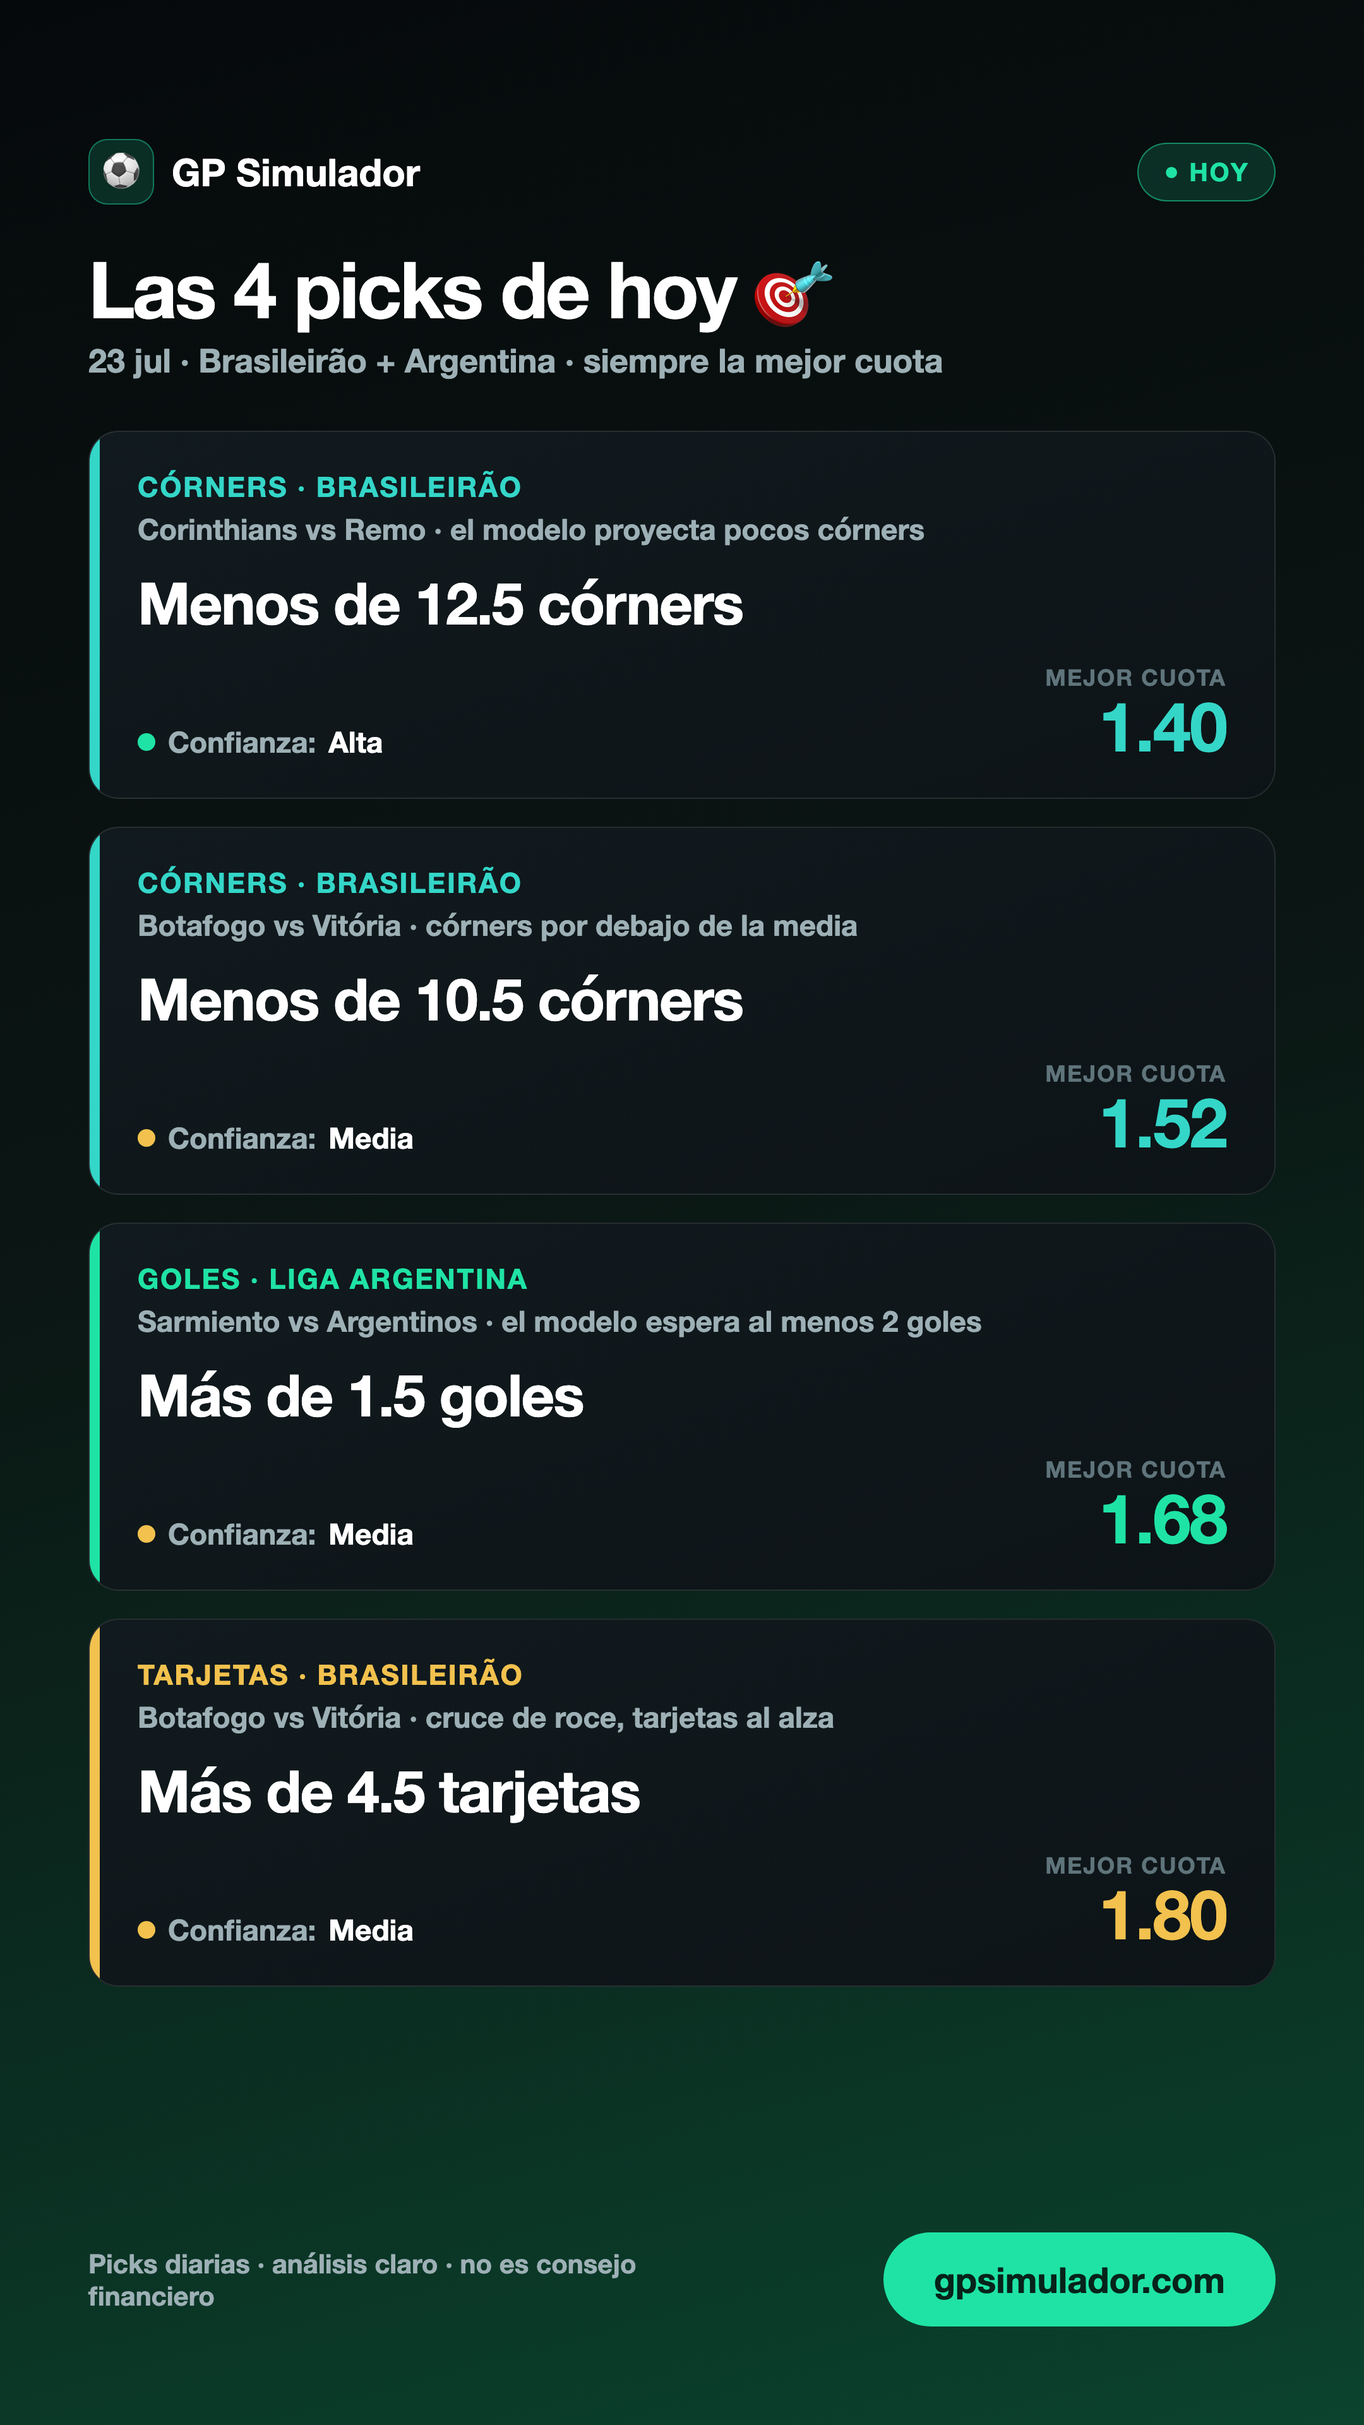
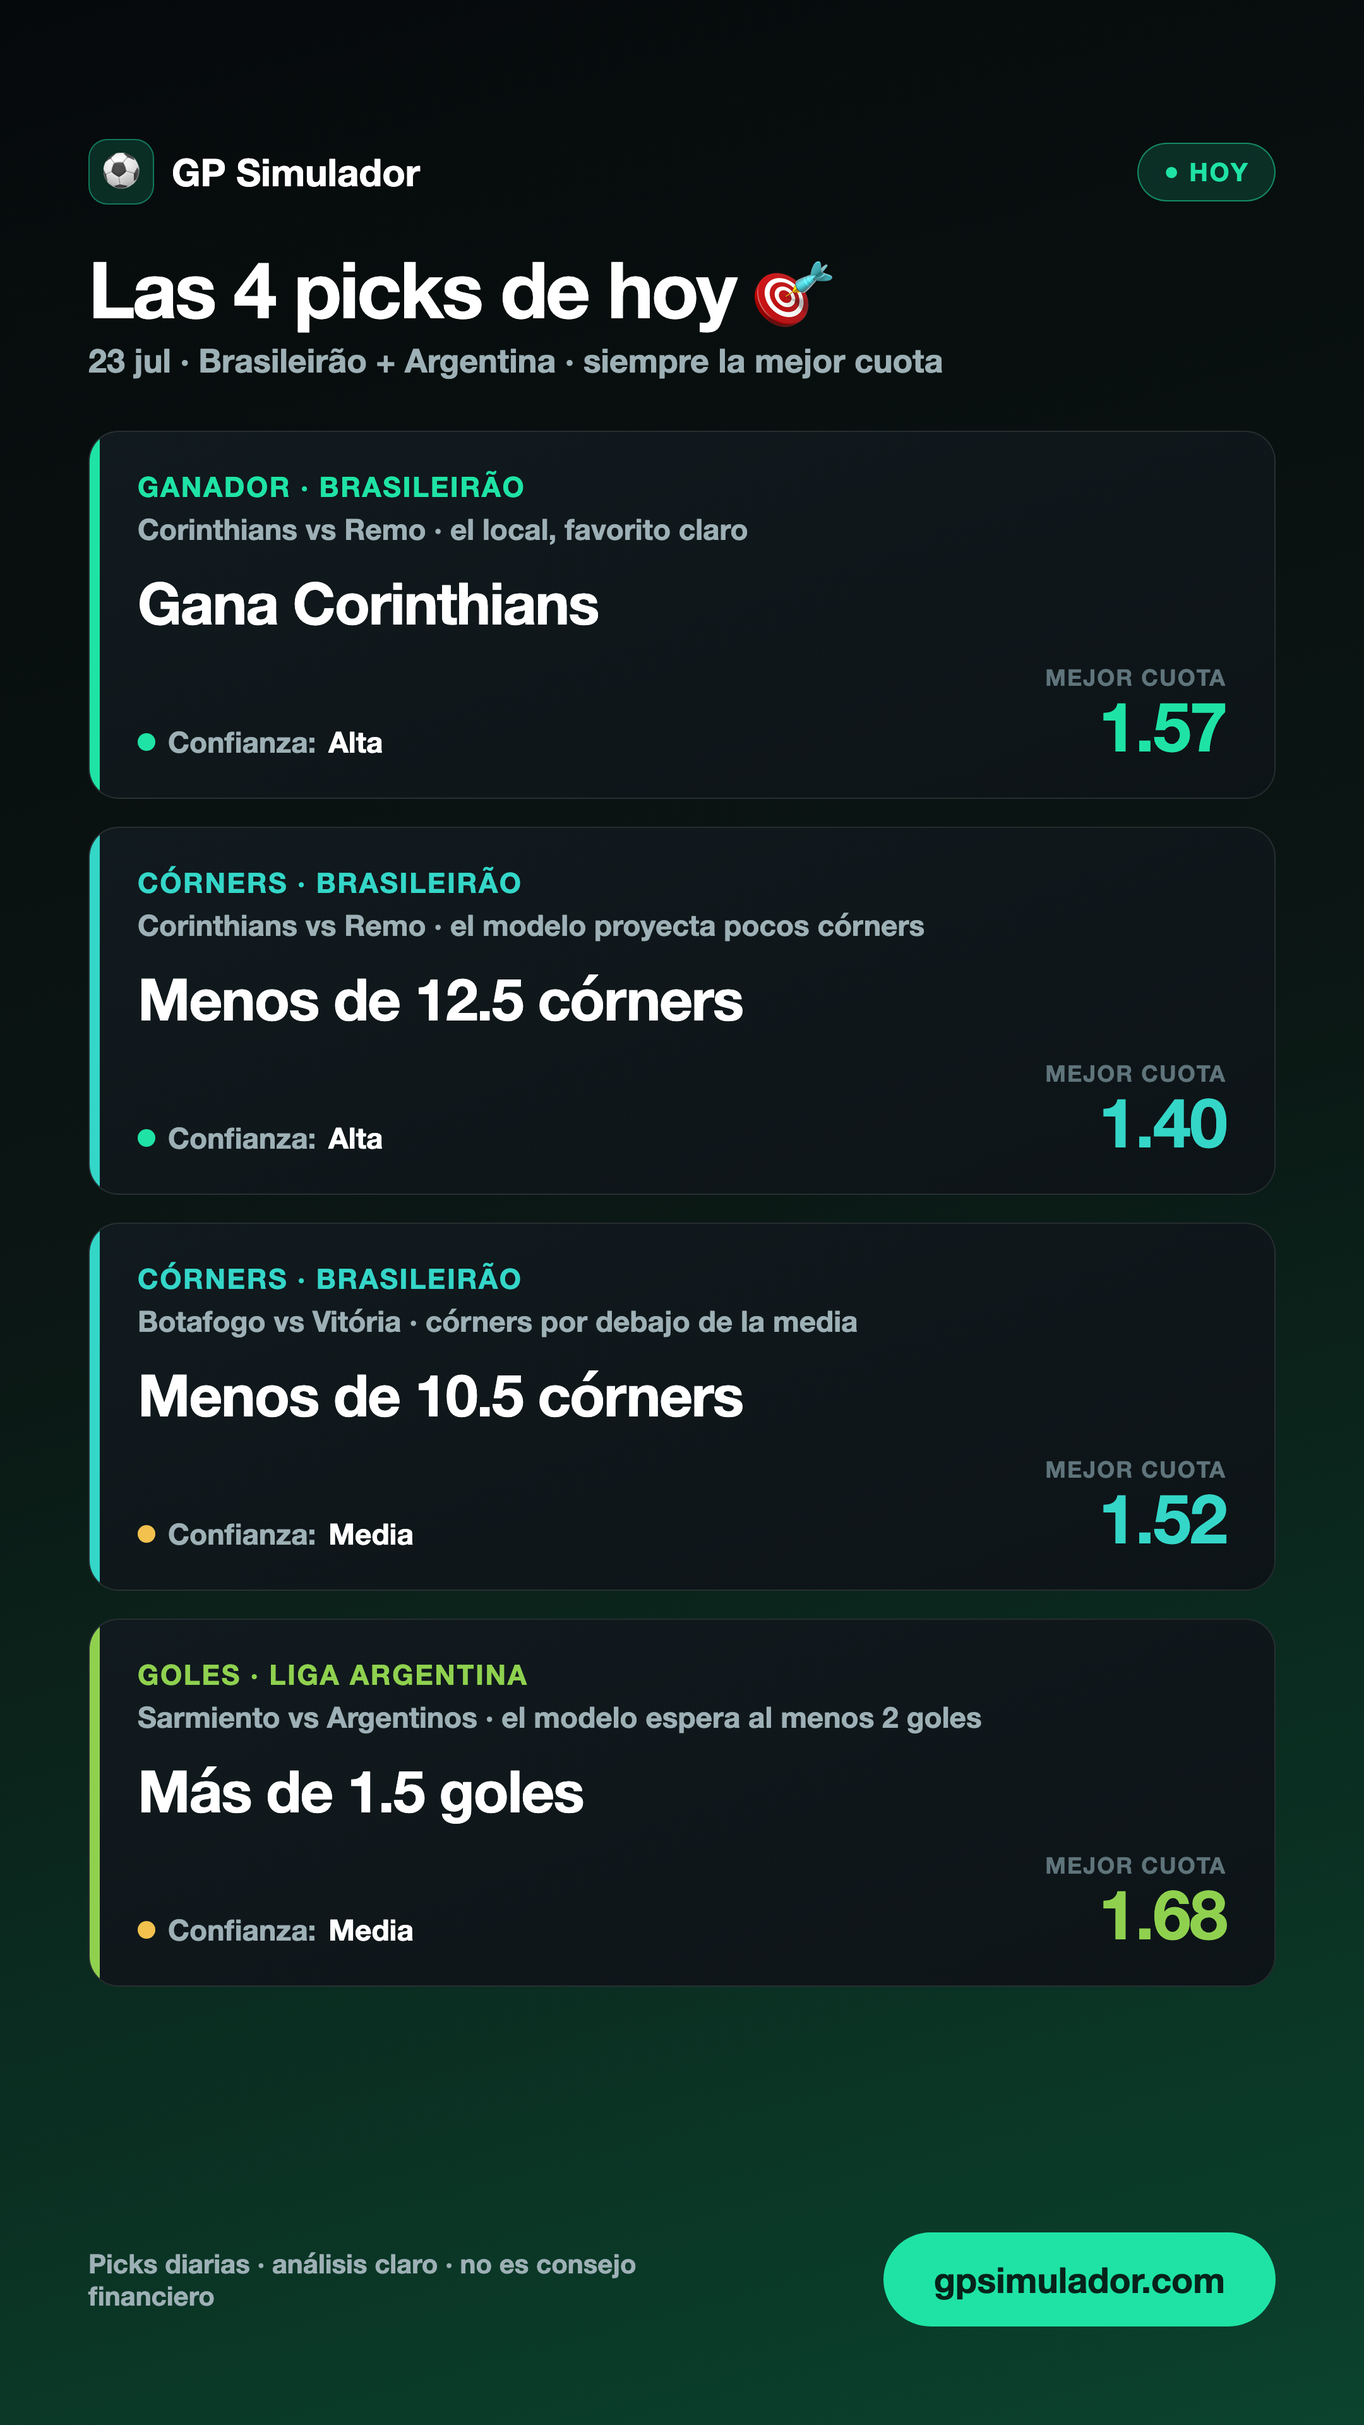
Contenido 23-jul corregido: Gana Corinthians @1.57 reemplaza la de tarjetas
4 picks: Gana Corinthians 1.57, Menos 12.5 corners 1.40, Menos 10.5 corners 1.52,
Mas 1.5 goles 1.68. Re-render story ES + X ES/EN.

diff --git a/ig-src/x-hoy0723-picks.html b/ig-src/x-hoy0723-picks.html
@@ -12,11 +12,11 @@ h1 { font-size: 36px; font-weight: 800; letter-spacing: -1px; margin: 16px 0 4px
 .grid { display: grid; grid-template-columns: repeat(4, 1fr); gap: 14px; }
 .card { position: relative; background: #101915; border: 1px solid #1c2a24; border-radius: 16px; padding: 20px 18px 18px; overflow: hidden; }
 .card::before { content: ''; position: absolute; left: 0; top: 0; bottom: 0; width: 4px; background: #2de6a3; }
-.card.goals::before { background: #34D6C8; }
-.card.cards::before { background: #F2C14E; }
+.card.corners::before { background: #34D6C8; }
+.card.goals::before { background: #8FD14F; }
 .fam { color: #2de6a3; font-size: 12px; font-weight: 800; letter-spacing: 1.2px; text-transform: uppercase; margin-bottom: 9px; }
-.card.goals .fam { color: #34D6C8; }
-.card.cards .fam { color: #F2C14E; }
+.card.corners .fam { color: #34D6C8; }
+.card.goals .fam { color: #8FD14F; }
 .match { font-size: 13px; color: #9db0a8; font-weight: 600; line-height: 1.35; margin-bottom: 3px; min-height: 34px; }
 .tesis { font-size: 12px; color: #6f817a; margin-bottom: 14px; min-height: 30px; }
 .sel { font-size: 23px; font-weight: 800; letter-spacing: -.5px; margin-bottom: 16px; line-height: 1.1; min-height: 54px; }
@@ -26,8 +26,8 @@ h1 { font-size: 36px; font-weight: 800; letter-spacing: -1px; margin: 16px 0 4px
 .dot.h { background: #2de6a3; } .dot.m { background: #f0b429; }
 .odds-l { font-size: 11px; color: #6f817a; font-weight: 700; letter-spacing: 1px; }
 .odds { font-size: 32px; font-weight: 800; color: #2de6a3; }
-.card.goals .odds { color: #34D6C8; }
-.card.cards .odds { color: #F2C14E; }
+.card.corners .odds { color: #34D6C8; }
+.card.goals .odds { color: #8FD14F; }
 .foot { position: absolute; bottom: 34px; left: 44px; right: 44px; display: flex; align-items: center; justify-content: space-between; }
 .foot .n { font-size: 14px; color: #6f817a; font-weight: 600; }
 .pill { background: #2de6a3; color: #05231a; font-size: 17px; font-weight: 800; padding: 11px 22px; border-radius: 99px; }
@@ -40,7 +40,15 @@ h1 { font-size: 36px; font-weight: 800; letter-spacing: -1px; margin: 16px 0 4px
   <h1>Las 4 picks de hoy 🎯</h1>
   <div class="sub">23 jul · Brasileirão + Argentina · siempre la mejor cuota</div>
   <div class="grid">
-    <div class="card goals">
+    <div class="card">
+      <div class="fam">Ganador · Brasileirão</div>
+      <div class="match">Corinthians vs Remo</div>
+      <div class="tesis">El local, favorito claro</div>
+      <div class="sel">Gana Corinthians</div>
+      <div class="conf"><span class="dot h"></span>Confianza: <b>Alta</b></div>
+      <div class="odds-l">MEJOR CUOTA</div><div class="odds">1.57</div>
+    </div>
+    <div class="card corners">
       <div class="fam">Córners · Brasileirão</div>
       <div class="match">Corinthians vs Remo</div>
       <div class="tesis">Pocos córners proyectados</div>
@@ -48,7 +56,7 @@ h1 { font-size: 36px; font-weight: 800; letter-spacing: -1px; margin: 16px 0 4px
       <div class="conf"><span class="dot h"></span>Confianza: <b>Alta</b></div>
       <div class="odds-l">MEJOR CUOTA</div><div class="odds">1.40</div>
     </div>
-    <div class="card goals">
+    <div class="card corners">
       <div class="fam">Córners · Brasileirão</div>
       <div class="match">Botafogo vs Vitória</div>
       <div class="tesis">Córners bajo la media</div>
@@ -56,21 +64,13 @@ h1 { font-size: 36px; font-weight: 800; letter-spacing: -1px; margin: 16px 0 4px
       <div class="conf"><span class="dot m"></span>Confianza: <b>Media</b></div>
       <div class="odds-l">MEJOR CUOTA</div><div class="odds">1.52</div>
     </div>
-    <div class="card">
+    <div class="card goals">
       <div class="fam">Goles · Liga Argentina</div>
       <div class="match">Sarmiento vs Argentinos</div>
       <div class="tesis">Al menos 2 goles esperados</div>
       <div class="sel">Más de 1.5 goles</div>
       <div class="conf"><span class="dot m"></span>Confianza: <b>Media</b></div>
       <div class="odds-l">MEJOR CUOTA</div><div class="odds">1.68</div>
-    </div>
-    <div class="card cards">
-      <div class="fam">Tarjetas · Brasileirão</div>
-      <div class="match">Botafogo vs Vitória</div>
-      <div class="tesis">Cruce de roce, tarjetas al alza</div>
-      <div class="sel">Más de 4.5 tarjetas</div>
-      <div class="conf"><span class="dot m"></span>Confianza: <b>Media</b></div>
-      <div class="odds-l">MEJOR CUOTA</div><div class="odds">1.80</div>
     </div>
   </div>
   <div class="foot"><div class="n">Picks diarias · análisis claro · no es consejo financiero</div><div class="pill">gpsimulador.com</div></div>

diff --git a/ig-src/x-hoy0723-picks-en.html b/ig-src/x-hoy0723-picks-en.html
@@ -12,11 +12,11 @@ h1 { font-size: 36px; font-weight: 800; letter-spacing: -1px; margin: 16px 0 4px
 .grid { display: grid; grid-template-columns: repeat(4, 1fr); gap: 14px; }
 .card { position: relative; background: #101915; border: 1px solid #1c2a24; border-radius: 16px; padding: 20px 18px 18px; overflow: hidden; }
 .card::before { content: ''; position: absolute; left: 0; top: 0; bottom: 0; width: 4px; background: #2de6a3; }
-.card.goals::before { background: #34D6C8; }
-.card.cards::before { background: #F2C14E; }
+.card.corners::before { background: #34D6C8; }
+.card.goals::before { background: #8FD14F; }
 .fam { color: #2de6a3; font-size: 12px; font-weight: 800; letter-spacing: 1.2px; text-transform: uppercase; margin-bottom: 9px; }
-.card.goals .fam { color: #34D6C8; }
-.card.cards .fam { color: #F2C14E; }
+.card.corners .fam { color: #34D6C8; }
+.card.goals .fam { color: #8FD14F; }
 .match { font-size: 13px; color: #9db0a8; font-weight: 600; line-height: 1.35; margin-bottom: 3px; min-height: 34px; }
 .tesis { font-size: 12px; color: #6f817a; margin-bottom: 14px; min-height: 30px; }
 .sel { font-size: 23px; font-weight: 800; letter-spacing: -.5px; margin-bottom: 16px; line-height: 1.1; min-height: 54px; }
@@ -26,8 +26,8 @@ h1 { font-size: 36px; font-weight: 800; letter-spacing: -1px; margin: 16px 0 4px
 .dot.h { background: #2de6a3; } .dot.m { background: #f0b429; }
 .odds-l { font-size: 11px; color: #6f817a; font-weight: 700; letter-spacing: 1px; }
 .odds { font-size: 32px; font-weight: 800; color: #2de6a3; }
-.card.goals .odds { color: #34D6C8; }
-.card.cards .odds { color: #F2C14E; }
+.card.corners .odds { color: #34D6C8; }
+.card.goals .odds { color: #8FD14F; }
 .foot { position: absolute; bottom: 34px; left: 44px; right: 44px; display: flex; align-items: center; justify-content: space-between; }
 .foot .n { font-size: 14px; color: #6f817a; font-weight: 600; }
 .pill { background: #2de6a3; color: #05231a; font-size: 17px; font-weight: 800; padding: 11px 22px; border-radius: 99px; }
@@ -40,7 +40,15 @@ h1 { font-size: 36px; font-weight: 800; letter-spacing: -1px; margin: 16px 0 4px
   <h1>Today's 4 picks 🎯</h1>
   <div class="sub">Jul 23 · Brasileirão + Argentina · always the best price</div>
   <div class="grid">
-    <div class="card goals">
+    <div class="card">
+      <div class="fam">Winner · Brasileirão</div>
+      <div class="match">Corinthians vs Remo</div>
+      <div class="tesis">Clear home favorite</div>
+      <div class="sel">Corinthians to win</div>
+      <div class="conf"><span class="dot h"></span>Confidence: <b>High</b></div>
+      <div class="odds-l">BEST ODDS</div><div class="odds">1.57</div>
+    </div>
+    <div class="card corners">
       <div class="fam">Corners · Brasileirão</div>
       <div class="match">Corinthians vs Remo</div>
       <div class="tesis">Low corner count projected</div>
@@ -48,7 +56,7 @@ h1 { font-size: 36px; font-weight: 800; letter-spacing: -1px; margin: 16px 0 4px
       <div class="conf"><span class="dot h"></span>Confidence: <b>High</b></div>
       <div class="odds-l">BEST ODDS</div><div class="odds">1.40</div>
     </div>
-    <div class="card goals">
+    <div class="card corners">
       <div class="fam">Corners · Brasileirão</div>
       <div class="match">Botafogo vs Vitória</div>
       <div class="tesis">Corners below average</div>
@@ -56,21 +64,13 @@ h1 { font-size: 36px; font-weight: 800; letter-spacing: -1px; margin: 16px 0 4px
       <div class="conf"><span class="dot m"></span>Confidence: <b>Medium</b></div>
       <div class="odds-l">BEST ODDS</div><div class="odds">1.52</div>
     </div>
-    <div class="card">
+    <div class="card goals">
       <div class="fam">Goals · Argentine League</div>
       <div class="match">Sarmiento vs Argentinos</div>
       <div class="tesis">At least 2 goals expected</div>
       <div class="sel">Over 1.5 goals</div>
       <div class="conf"><span class="dot m"></span>Confidence: <b>Medium</b></div>
       <div class="odds-l">BEST ODDS</div><div class="odds">1.68</div>
-    </div>
-    <div class="card cards">
-      <div class="fam">Cards · Brasileirão</div>
-      <div class="match">Botafogo vs Vitória</div>
-      <div class="tesis">Physical clash, cards trending up</div>
-      <div class="sel">Over 4.5 cards</div>
-      <div class="conf"><span class="dot m"></span>Confidence: <b>Medium</b></div>
-      <div class="odds-l">BEST ODDS</div><div class="odds">1.80</div>
     </div>
   </div>
   <div class="foot"><div class="n">Daily picks · clear analysis · not financial advice</div><div class="pill">gpsimulador.com</div></div>

diff --git a/ig-src/story-hoy0723-picks.html b/ig-src/story-hoy0723-picks.html
@@ -13,11 +13,11 @@ h1 { font-size: 62px; font-weight: 800; letter-spacing: -2px; margin-bottom: 8px
 .sub { font-size: 26px; color:#9DB0B5; font-weight:600; margin-bottom: 40px; }
 .pick { background: linear-gradient(160deg, #111A1E, #0D1417); border: 1px solid rgba(255,255,255,.10); border-radius: 24px; padding: 30px 38px; position: relative; overflow:hidden; margin-bottom: 22px; }
 .pick::before { content:''; position:absolute; left:0; top:0; bottom:0; width:8px; background:#1FE3A4; }
-.pick.goals::before { background:#34D6C8; }
-.pick.cards::before { background:#F2C14E; }
+.pick.corners::before { background:#34D6C8; }
+.pick.goals::before { background:#8FD14F; }
 .fam { font-size: 22px; font-weight: 800; letter-spacing: 1.3px; color:#1FE3A4; text-transform:uppercase; }
-.pick.goals .fam { color:#34D6C8; }
-.pick.cards .fam { color:#F2C14E; }
+.pick.corners .fam { color:#34D6C8; }
+.pick.goals .fam { color:#8FD14F; }
 .note { font-size: 23px; font-weight: 600; color:#9DB0B5; margin: 6px 0 16px; }
 .bet { font-size: 46px; font-weight: 800; letter-spacing:-1px; color:#fff; margin-bottom: 20px; }
 .row { display:flex; align-items:flex-end; justify-content:space-between; }
@@ -28,8 +28,8 @@ h1 { font-size: 62px; font-weight: 800; letter-spacing: -2px; margin-bottom: 8px
 .odds { text-align:right; }
 .odds .ol { font-size: 18px; font-weight:700; letter-spacing:1px; color:#5F747B; text-transform:uppercase; }
 .odds .ov { font-size: 54px; font-weight:800; color:#1FE3A4; letter-spacing:-1px; line-height:1; }
-.pick.goals .odds .ov { color:#34D6C8; }
-.pick.cards .odds .ov { color:#F2C14E; }
+.pick.corners .odds .ov { color:#34D6C8; }
+.pick.goals .odds .ov { color:#8FD14F; }
 .foot { position:absolute; bottom: 78px; left: 70px; right: 70px; display:flex; align-items:center; justify-content:space-between; }
 .cta { background:#1FE3A4; color:#06231A; font-size:28px; font-weight:800; padding:20px 40px; border-radius:99px; }
 .foot .small { font-size:21px; color:#9DB0B5; font-weight:600; max-width: 480px; }
@@ -38,29 +38,29 @@ h1 { font-size: 62px; font-weight: 800; letter-spacing: -2px; margin-bottom: 8px
   <div class="brand"><div class="badge">⚽</div><div class="bname">GP Simulador</div><div class="tag">● HOY</div></div>
   <h1>Las 4 picks de hoy 🎯</h1>
   <div class="sub">23 jul · Brasileirão + Argentina · siempre la mejor cuota</div>
-  <div class="pick goals">
+  <div class="pick">
+    <div class="fam">Ganador · Brasileirão</div>
+    <div class="note">Corinthians vs Remo · el local, favorito claro</div>
+    <div class="bet">Gana Corinthians</div>
+    <div class="row"><div class="conf"><span class="dot high"></span>Confianza: <b>Alta</b></div><div class="odds"><div class="ol">Mejor cuota</div><div class="ov">1.57</div></div></div>
+  </div>
+  <div class="pick corners">
     <div class="fam">Córners · Brasileirão</div>
     <div class="note">Corinthians vs Remo · el modelo proyecta pocos córners</div>
     <div class="bet">Menos de 12.5 córners</div>
     <div class="row"><div class="conf"><span class="dot high"></span>Confianza: <b>Alta</b></div><div class="odds"><div class="ol">Mejor cuota</div><div class="ov">1.40</div></div></div>
   </div>
-  <div class="pick goals">
+  <div class="pick corners">
     <div class="fam">Córners · Brasileirão</div>
     <div class="note">Botafogo vs Vitória · córners por debajo de la media</div>
     <div class="bet">Menos de 10.5 córners</div>
     <div class="row"><div class="conf"><span class="dot"></span>Confianza: <b>Media</b></div><div class="odds"><div class="ol">Mejor cuota</div><div class="ov">1.52</div></div></div>
   </div>
-  <div class="pick">
+  <div class="pick goals">
     <div class="fam">Goles · Liga Argentina</div>
     <div class="note">Sarmiento vs Argentinos · el modelo espera al menos 2 goles</div>
     <div class="bet">Más de 1.5 goles</div>
     <div class="row"><div class="conf"><span class="dot"></span>Confianza: <b>Media</b></div><div class="odds"><div class="ol">Mejor cuota</div><div class="ov">1.68</div></div></div>
-  </div>
-  <div class="pick cards">
-    <div class="fam">Tarjetas · Brasileirão</div>
-    <div class="note">Botafogo vs Vitória · cruce de roce, tarjetas al alza</div>
-    <div class="bet">Más de 4.5 tarjetas</div>
-    <div class="row"><div class="conf"><span class="dot"></span>Confianza: <b>Media</b></div><div class="odds"><div class="ol">Mejor cuota</div><div class="ov">1.80</div></div></div>
   </div>
   <div class="foot">
     <div class="small">Picks diarias · análisis claro · no es consejo financiero</div>
